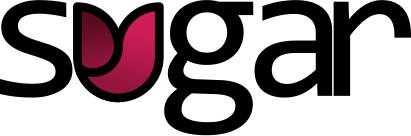
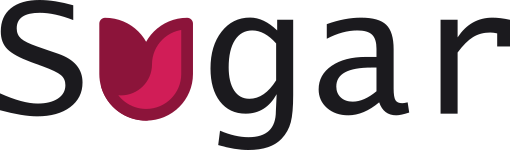
New Theme

diff --git a/style.css b/style.css
@@ -1,114 +1,109 @@
-body {
-  background: #12171d;
-  color: #aaa;
-  font-size: 16px;
-  line-height: 20px;
-  font-family: "Lucida Console", Monaco, monospace;
-  text-align: left;
-  font-weight: 1000;
-  margin: auto;
-}
-
-#content {
-  align: center;
-  max-width: 750px;
-  margin: auto;
-}
-
-a {
-  color: #8c143a;
-  font-weight: bold;
-}
-
-a:hover {
-  color: #8c143a;
-  text-decoration: none;
-}
-
-h1 {
-  color: #8c143a
-}
-
-h2 {
-  color: #8c143a
-}
-
-hr {
-  border: none;
-  height: 3px;
-  background-color: #8c143a;
-  max-width: 750px;
-}
-
-
-
 #header {
   padding: 30px 24px 24px 24px;
-  background: #ccc;
+  background: #f0f0f0;
 }
 
 #logo {
   text-align: left;
-  max-width: 750px;
+  max-width: 800px;
   margin: auto;
 }
 
 #logo a {
+  border-bottom: none;
   text-decoration: none;
 }
 
 #logo h2 {
   margin: 5px 0 0;
   text-decoration: none;
-  font-size: 17px;
+  font-size: 14px;
   text-transform: uppercase;
   letter-spacing: -0.05em;
-  color: #0d1115;
+  color: #d11d57;
 }
 
 #navbar {
-  overflow: hidden;
-  border-top: 4px solid #ccc;
-  background: #0d1115;
-  padding: 0 0 0 0;
-  border-bottom-left-radius:  3px;
-  border-bottom-right-radius: 3px;
+  background: #1b1a1e;
   position: -webkit-sticky;
   position: sticky;
   top: 0;
 }
 
 #links {
-  max-width: 750px;
   margin: auto;
+  max-width: 800px;
 }
 
 #links a {
-  float: center;
+  border-bottom: none;
+  color: #f0f0f0;
   display: inline-block;
-  color: #fff;
   text-align: center;
   padding: 14px 16px;
   text-decoration: none;
   font-size: 17px;
+  transition: color 0.3s;
 }
 
 #links a:hover {
-  background-color: #8c143a;
-  border-bottom-left-radius:  5px;
-  border-bottom-right-radius: 5px;
+  color: #d11d57;
 }
 
 #links a.active {
-  background-color: #ccc;
-  color: #0d1115;
-  border-bottom-left-radius:  5px;
-  border-bottom-right-radius: 5px;
+  color: #d11d57;
+  border-bottom: 3px solid;
+  transition: border-bottom 0.3s;
+}
+
+body {
+  background: #f0f0f0;
+  color: #231a1c;
+  font-size: 13px;
+  font-family: "Lucida Console", Monaco, monospace;
+  text-align: left;
+  margin: auto;
+}
+
+#content {
+  align: center;
+  max-width: 800px;
+  line-height: 1.3em;
+  margin: auto;
+}
+
+a {
+  color: #d11d57;
+  text-decoration: none;
+  font-weight: bold;
+  border-bottom: 2px solid;
+  transition: border-bottom 0.25s;
+}
+
+a:hover {
+  border-bottom: none;
+  transition: border-bottom 0.25s;
+}
+
+h1 {
+  font-size: 17px;
+  color: #d11d57
+}
+
+h2 {
+  font-size: 15px;
+  color: #d11d57
+}
+
+hr {
+  border: none;
+  height: 3px;
+  background-color: #d11d57;
 }
 
 #footer {
-  color: #ccc;
   padding: 30px 24px 24px 24px;
-  background: #0d1115;
+  color: #f0f0f0;
+  background: #1b1a1e;
   text-align: center;
 }

diff --git a/index.html b/index.html
@@ -28,14 +28,14 @@
     </div>
   </div>
 
-  <!-- Navbar -->
-  <div id="navbar">
-    <div id="links">
-      <a id="About_Link" onclick="getContent('About'); return false;" href="#">About</a><a id="Tutorial_Link" onclick="getContent('Tutorial'); return false;" href="#">Tutorial</a><a id="Get_Sugar_Link" onclick="getContent('Get_Sugar'); return false;" href="#">Get Sugar</a>
-    </div>
-  </div>
-
   <body>
+    <!-- Navbar -->
+    <div id="navbar">
+      <div id="links">
+        <a id="About_Link" onclick="getContent('About'); return false;" href="#">About</a><a id="Tutorial_Link" onclick="getContent('Tutorial'); return false;" href="#">Tutorial</a><a id="Get_Sugar_Link" onclick="getContent('Get_Sugar'); return false;" href="#">Get Sugar</a>
+      </div>
+    </div>
+
     <!-- Page Content -->
     <br>
     <div id="content"></div>

diff --git a/assets/prism_default.css b/assets/prism_default.css
@@ -8,7 +8,7 @@ https://prismjs.com/download.html#themes=prism&languages=markup+css+clike+javasc
 
 code[class*="language-"],
 pre[class*="language-"] {
-	color: #0d1115;
+	color: #e3e3e3;
 	background: none;
 	font-family: Consolas, Monaco, 'Andale Mono', 'Ubuntu Mono', monospace;
 	text-align: left;
@@ -56,7 +56,8 @@ pre[class*="language-"] {
 
 :not(pre) > code[class*="language-"],
 pre[class*="language-"] {
-	background: #bbb;
+	background: #1b1a1e;
+	border-radius: 4px
 }
  
 /* Inline code */

diff --git a/Pages/About.html b/Pages/About.html
@@ -4,10 +4,7 @@
 
 <!-- Code Example -->
 <pre><code class="language-sugar">
-main() :=
-  a := "Hello"
-  b := "Sugar"
-  a + ", " + b -> write
+"Hello, Sugar" -> write()
 
 `------------------`
 `Hello, Sugar`
